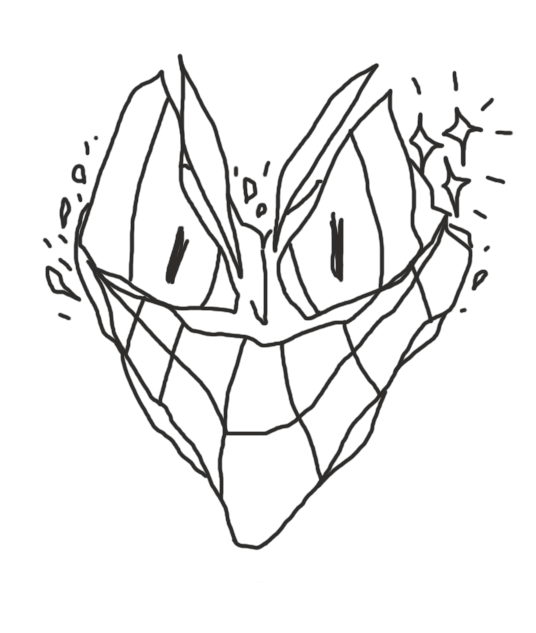
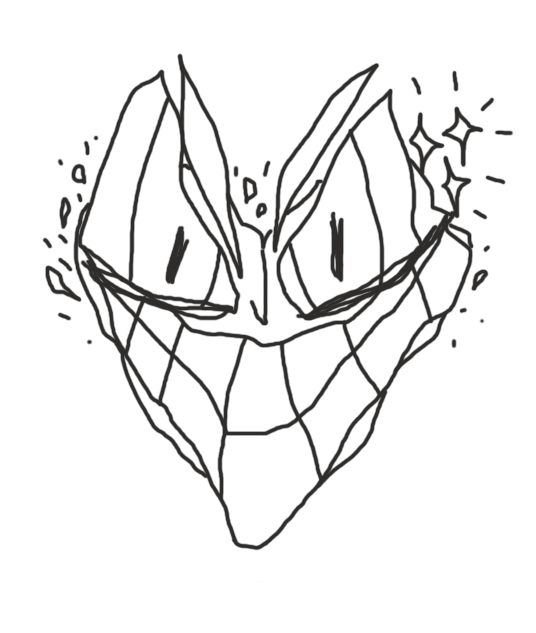
Added eye-lids to an image and changed the speeds of the animation

diff --git a/js/backgroundAnimation.js b/js/backgroundAnimation.js
@@ -31,7 +31,7 @@ function animateFace()
 
 
 		(function loop() {
-    var rand = Math.round(Math.random() * (352 - 54)) + 54;
+    var rand = Math.round(Math.random() * (352 - 89)) + 89;
     setTimeout(function() 
 	{
             animateFace();
